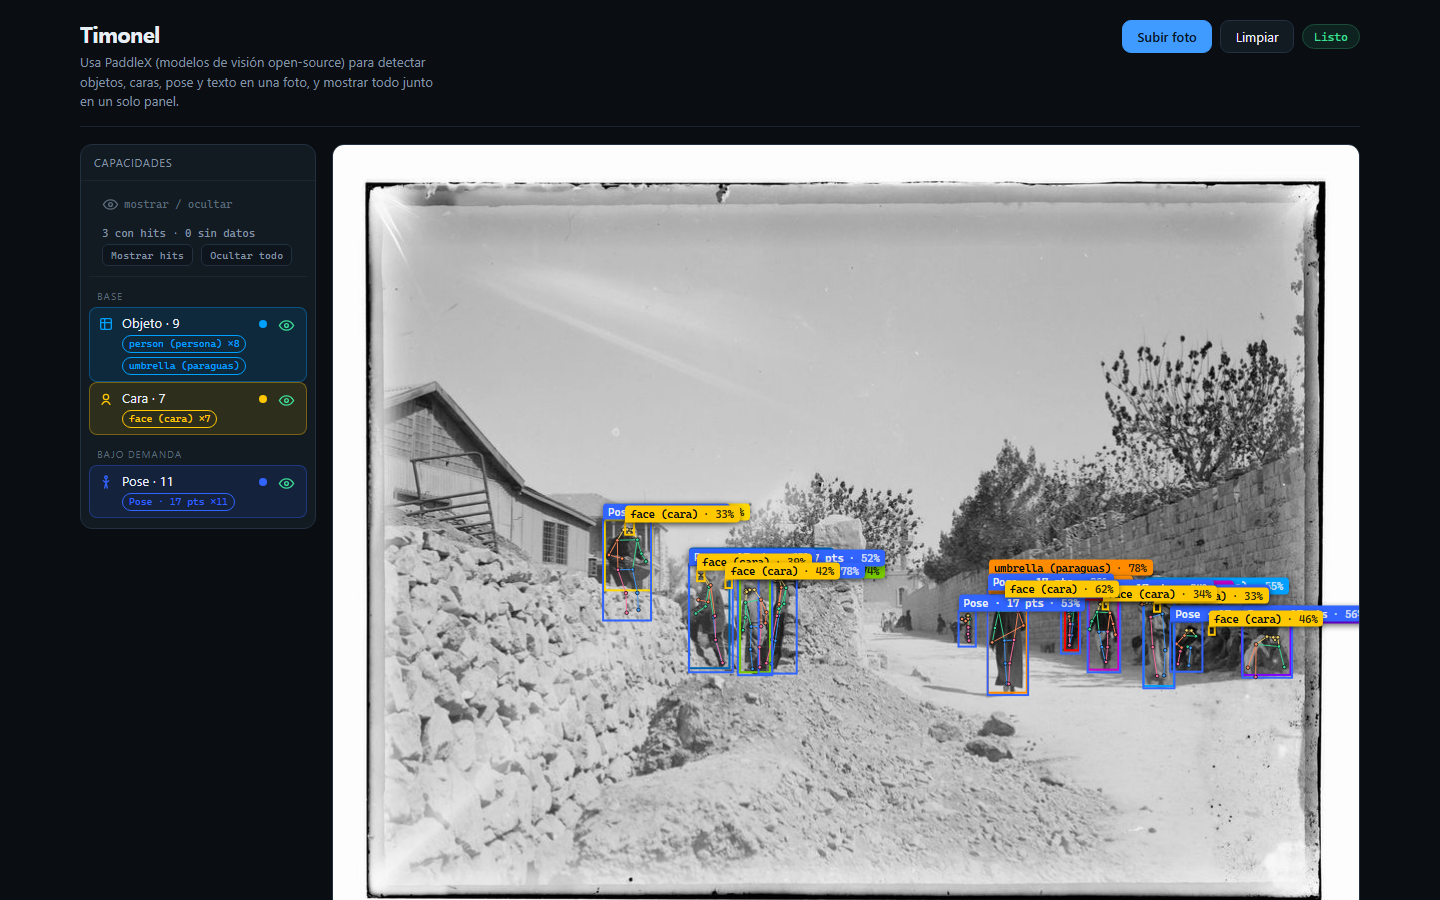
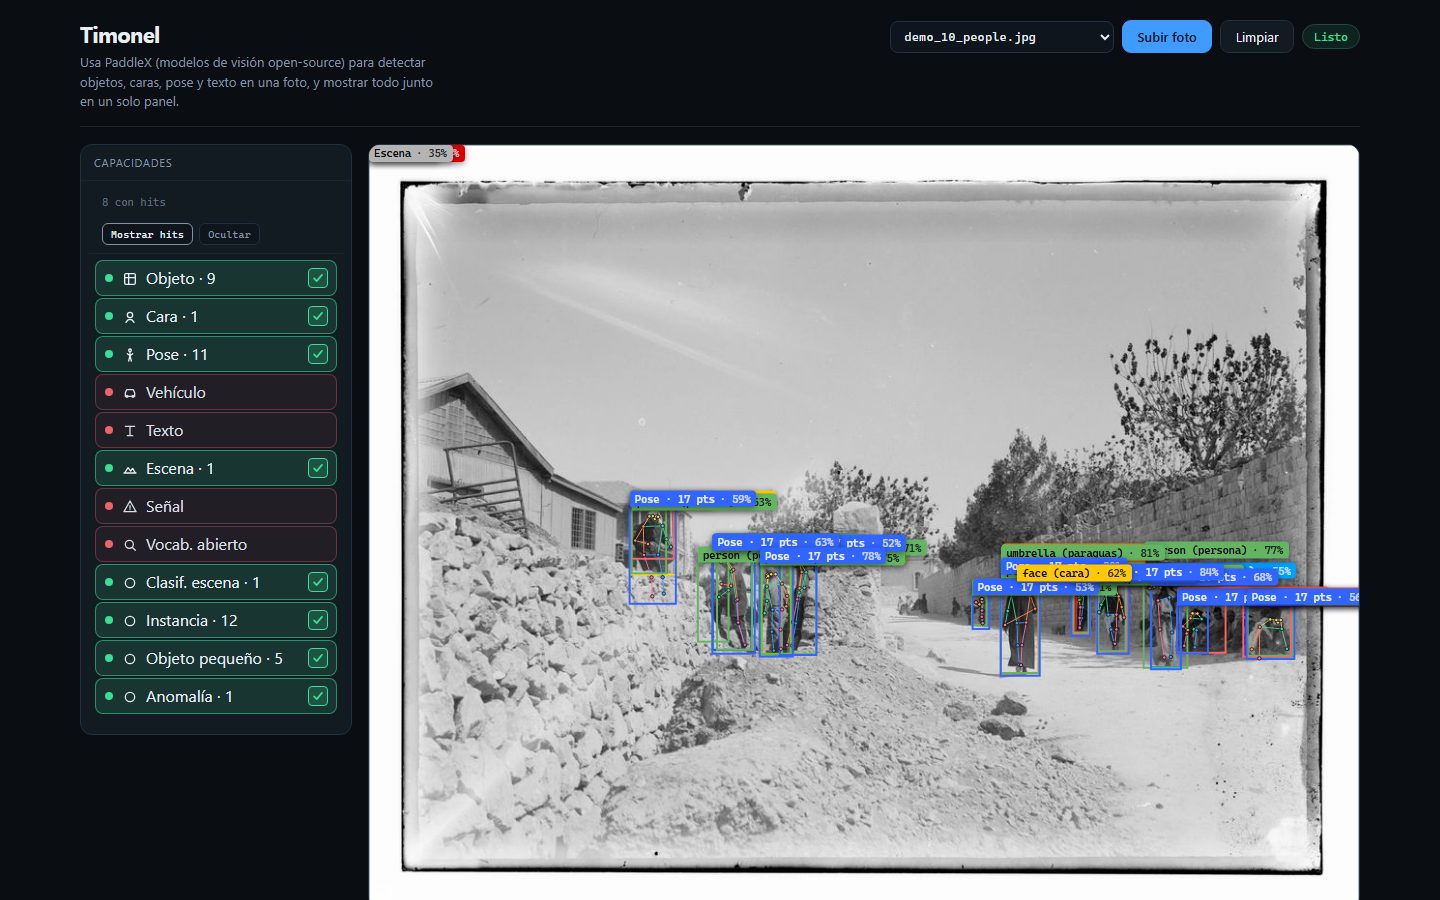
actualizar screenshot del panel al front actual
Captura con selector de imagenes_muestra, tilde de visibilidad y capas del stack completo.

Changed region(s): [[0.0625, 0.1556, 0.9688, 1.0], [0.625, 0.0311, 0.7188, 0.0622]]

diff --git a/README.md b/README.md
@@ -14,7 +14,7 @@ arranacan **todas** las capacidades del stack default.
 
 ![Panel de Timonel](assets/panel.png)
 
-<p align="center"><sub>Varias capacidades PaddleX orquestadas sobre una sola foto: objetos, caras y pose unificados en un flujo de eventos.</sub></p>
+<p align="center"><sub>Selector de demos del repo, capas con tilde de visibilidad y overlays PaddleX sobre una sola foto.</sub></p>
 
 ## Prerrequisitos
 
